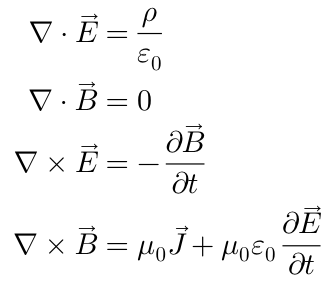
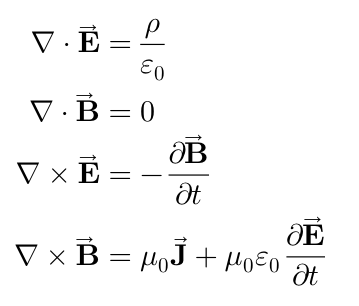
Update README, CHANGELOG and screenshots for release.

diff --git a/iosMathExample/example/ViewController.m b/iosMathExample/example/ViewController.m
@@ -124,9 +124,9 @@
 
     self.demoLabels[10] = [self createMathLabel:@"f^{(n)}(z_0) = \\frac{n!}{2\\pi i}\\oint_\\gamma\\frac{f(z)}{(z-z_0)^{n+1}}\\,dz" withHeight:40];
 
-    self.demoLabels[11] = [self createMathLabel:@"i\\hbar\\frac{\\partial}{\\partial t}\\mathbf{\\Psi}(\\mathbf{x},t) = "
-                           "-\\frac{\\hbar}{2m}\\nabla^2\\mathbf{\\Psi}(\\mathbf{x},t) + "
-                           "V(\\mathbf{x})\\mathbf{\\Psi}(\\mathbf{x},t)" withHeight:40];
+    self.demoLabels[11] = [self createMathLabel:@"i\\hbar\\frac{\\partial}{\\partial t}\\mathbf\\Psi(\\mathbf{x},t) = "
+                           "-\\frac{\\hbar}{2m}\\nabla^2\\mathbf\\Psi(\\mathbf{x},t) + "
+                           "V(\\mathbf{x})\\mathbf\\Psi(\\mathbf{x},t)" withHeight:40];
     
     self.demoLabels[12] = [self createMathLabel:@"\\left(\\sum_{k=1}^n a_k b_k \\right)^2 \\le \\left(\\sum_{k=1}^n a_k^2\\right)\\left(\\sum_{k=1}^n b_k^2\\right)" withHeight:60];
     

diff --git a/EXAMPLES.md b/EXAMPLES.md
@@ -50,7 +50,7 @@ x = \frac{-b \pm \sqrt{b^2-4ac}}{2a}
 
 ## Calculus
 ```LaTeX
-f(x) = \int_{-\infty}^\infty\hat f(\xi)\,e^{2 \pi i \xi x}\,d\xi
+f(x) = \int\limits_{-\infty}^\infty\!\hat f(\xi)\,e^{2 \pi i \xi x}\,\mathrm{d}\xi
 ```
 
 ![Calculus](img/calculus.png)
@@ -64,7 +64,7 @@ f(x) = \int_{-\infty}^\infty\hat f(\xi)\,e^{2 \pi i \xi x}\,d\xi
 
 ## Gaussian Integral
 ```LaTeX
-\int_{-\infty}^{\infty} e^{-x^2} dx = \sqrt{\pi}
+\int_{-\infty}^{\infty} \! e^{-x^2} dx = \sqrt{\pi}
 ```
 
 ![Gauss Integral](img/gaussintegral.png)
@@ -90,7 +90,8 @@ f^{(n)}(z_0) = \frac{n!}{2\pi i}\oint_\gamma\frac{f(z)}{(z-z_0)^{n+1}}dz
 ![Cauchy Integral](img/cauchyintegral.png)
 ## Schroedinger's Equation
 ```LaTeX
-i\hbar\frac{\partial}{\partial t}\Psi(x,t) = -\frac{\hbar}{2m}\nabla^2\Psi(x,t) + V(x)\Psi(x,t)
+i\hbar\frac{\partial}{\partial t}\mathbf\Psi(\mathbf{x},t) = -\frac{\hbar}{2m}\nabla^2\mathbf\Psi(\mathbf{x},t)
++ V(\mathbf{x})\mathbf\Psi(\mathbf{x},t)
 ```
 
 ![Schroedinger](img/schroedinger.png)
@@ -110,7 +111,7 @@ equations.
 
 ## Cross product
 ```LaTeX
-\vec V_1 \times \vec V_2 =  \begin{vmatrix}
+\vec \bf V_1 \times \vec \bf V_2 =  \begin{vmatrix}
 \hat \imath &\hat \jmath &\hat k \\
 \frac{\partial X}{\partial u} & \frac{\partial Y}{\partial u} & 0 \\
 \frac{\partial X}{\partial v} & \frac{\partial Y}{\partial v} & 0
@@ -124,10 +125,10 @@ Use the `aligned`, `eqalign` or `split` environments to align
 multiple equations.
 ```LaTeX
 \begin{eqalign}
-\nabla \cdot \vec{E} & = \frac {\rho} {\varepsilon_0} \\
-\nabla \cdot \vec{B} & = 0 \\
-\nabla \times \vec{E} &= - \frac{\partial\vec{B}}{\partial t} \\
-\nabla \times \vec{B} & = \mu_0\vec{J} + \mu_0\varepsilon_0 \frac{\partial\vec{E}}{\partial t}
+\nabla \cdot \vec{\bf E} & = \frac {\rho} {\varepsilon_0} \\
+\nabla \cdot \vec{\bf B} & = 0 \\
+\nabla \times \vec{\bf E} &= - \frac{\partial\vec{\bf B}}{\partial t} \\
+\nabla \times \vec{\bf B} & = \mu_0\vec{\bf J} + \mu_0\varepsilon_0 \frac{\partial\vec{\bf E}}{\partial t}
 \end{eqalign}
 ```
 
@@ -163,10 +164,10 @@ f(x) = \begin{cases}
 
 ## Splitting long equations
 ```LaTeX
-Q(\lambda,\hat{\lambda}) = 
--\frac{1}{2} P(O \mid \lambda ) \sum_s \sum_m \sum_t \gamma_m^{(s)} (t) +\\ 
-\quad \left( \log(2 \pi ) + \log \left| C_m^{(s)} \right| + 
-\left( o_t - \hat{\mu}_m^{(s)} \right) ^T C_m^{(s)-1} \right) 
+\frak Q(\lambda,\hat{\lambda}) =
+-\frac{1}{2} \mathbb P(O \mid \lambda ) \sum_s \sum_m \sum_t \gamma_m^{(s)} (t) +\\
+\quad \left( \log(2 \pi ) + \log \left| \cal C_m^{(s)} \right| +
+\left( o_t - \hat{\mu}_m^{(s)} \right) ^T \cal C_m^{(s)-1} \right) 
 ```
 
 ![Long equation](img/long.png)

diff --git a/README.md b/README.md
@@ -107,6 +107,7 @@ This is a list of formula types that the library currently supports:
 * Math accents
 * Matrices
 * Equation alignment
+* Change bold, roman, caligraphic and other font styles (\\bf, \\text, etc.)
 * Most commonly used math symbols
 
 ### Example
@@ -208,7 +209,6 @@ some important pieces that are missing and will be included in future
 updates. This includes:
 
 * Support for explicit big delimiters (bigl, bigr etc.)
-* Support for specifing fonts such as `\cal` or `\rm`
 * Addition of missing plain TeX commands 
 
 ## Related Projects

diff --git a/CHANGELOG.md b/CHANGELOG.md
@@ -1,5 +1,11 @@
 ## Changelog
 
+### v0.9.3 (2017-01-22)
+* Support for changing font styles: (\\mathrm, \\mathcal, \\mathbf etc.)
+* Support for the \\text command.
+* Fix issue with \\$ not being rendered correctly.
+* Support for \\limits and \\nolimits
+
 ### v0.9.2 (2017-01-11)
 * Support for MacOS (Thanks to AnZhg)
 * Better AutoLayout support (Thanks to zhubofei)
